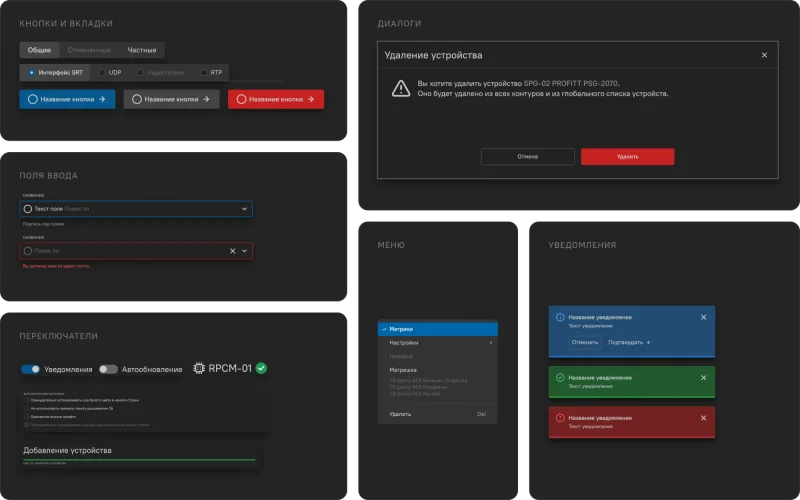
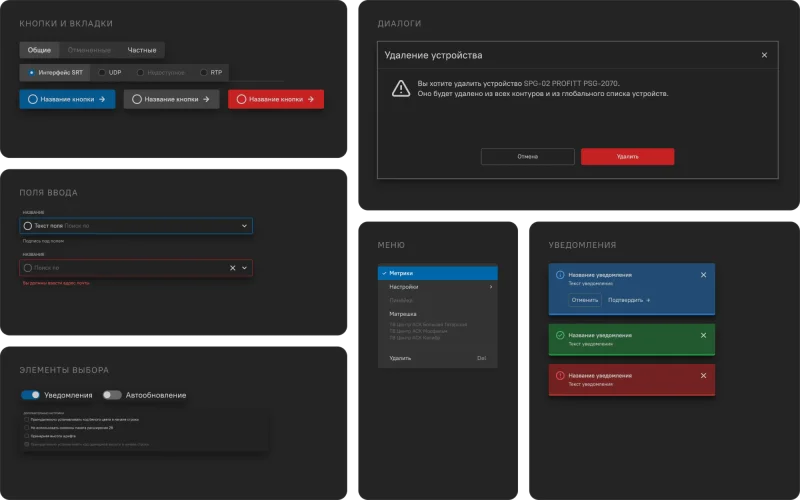
Design system: new cover on a transparent ground, shown without a plate
The new cover keeps its transparent gaps between the panels. Where it
appears (tunnel, the case's head, other-projects cards, ring previews)
the site no longer lays a dark plate, frame or glow behind it; the
other covers keep theirs.

Claude-Session: https://claude.ai/code/session_01Ffz7rezJQZF1CdbUwGJXMK

diff --git a/cases/design-system.html b/cases/design-system.html
@@ -63,7 +63,7 @@
       <h1 class="case-hero__title">Дизайн-система Vidau Systems</h1>
       <p class="case-hero__subtitle">Как библиотека из нескольких базовых элементов стала общей основой для линейки B2B-продуктов в компании</p>
 
-      <figure class="case-cover">
+      <figure class="case-cover cover-cutout">
         <img src="/src/assets/cases/design-system/Cover.webp" alt="Обложка дизайн-системы Vidau: сборка ключевых страниц библиотеки компонентов" width="2000" height="1250" fetchpriority="high" />
         <span class="case-chips"><span class="tunnel__tag">Дизайн-система</span><span class="tunnel__tag">Enterprise</span></span>
       </figure>

diff --git a/src/style.css b/src/style.css
@@ -838,6 +838,7 @@ h1, h2, h3 {
   background: linear-gradient(135deg, #1c2530, #0e1116);
   overflow: hidden;
 }
+.case.cover-cutout .case__media { background: transparent; }
 .case__media img {
   width: 100%;
   height: 100%;
@@ -1596,6 +1597,13 @@ main,
       0 0 0 1px rgba(255, 255, 255, 0.08),
       0 40px 120px -40px rgba(214, 107, 208, 0.45);
     transition: box-shadow 0.4s ease;
+  }
+  /* A cover drawn on a transparent ground (the design system's) keeps
+     it: no plate, frame or glow behind it. */
+  .tunnel__cover.cover-cutout,
+  .tunnel__cover.cover-cutout:hover {
+    background: transparent;
+    box-shadow: none;
   }
   .tunnel__cover img {
     display: block;

diff --git a/index.html b/index.html
@@ -236,7 +236,7 @@
           </div>
           </article>
           <article class="tunnel__case tunnel__case--left">
-          <a class="tunnel__cover" href="/cases/design-system.html" tabindex="-1" aria-hidden="true">
+          <a class="tunnel__cover cover-cutout" href="/cases/design-system.html" tabindex="-1" aria-hidden="true">
             <img src="/src/assets/cases/design-system/Cover.webp" alt="" width="2000" height="1250" loading="lazy" decoding="async" />
             <span class="tunnel__tags case-chips"><span class="tunnel__tag">Дизайн-система</span><span class="tunnel__tag">Enterprise</span></span>
           </a>

diff --git a/cases/satellite.html b/cases/satellite.html
@@ -334,7 +334,7 @@
           <div class="tags"><span class="tag">B2B</span><span class="tag">Web</span></div>
         </a>
 
-        <a class="case case--media-design-system" href="/cases/design-system.html">
+        <a class="case case--media-design-system cover-cutout" href="/cases/design-system.html">
           <div class="case__media"><img src="/src/assets/cases/design-system/Cover.webp" alt="Обложка дизайн-системы Vidau" width="2000" height="1250" loading="lazy" decoding="async" /></div>
           <div class="case__body case__body--bottom">
             <h3>Дизайн-система</h3>

diff --git a/cases/tracktice.html b/cases/tracktice.html
@@ -282,7 +282,7 @@
           <div class="tags"><span class="tag">B2B</span><span class="tag">Web</span></div>
         </a>
 
-        <a class="case case--media-design-system" href="/cases/design-system.html">
+        <a class="case case--media-design-system cover-cutout" href="/cases/design-system.html">
           <div class="case__media"><img src="/src/assets/cases/design-system/Cover.webp" alt="Обложка дизайн-системы Vidau" width="2000" height="1250" loading="lazy" decoding="async" /></div>
           <div class="case__body case__body--bottom">
             <h3>Дизайн-система</h3>

diff --git a/cases/vs-ecosystem.html b/cases/vs-ecosystem.html
@@ -321,7 +321,7 @@
           <div class="tags"><span class="tag">B2B</span><span class="tag">Web</span></div>
         </a>
 
-        <a class="case case--media-design-system" href="/cases/design-system.html">
+        <a class="case case--media-design-system cover-cutout" href="/cases/design-system.html">
           <div class="case__media"><img src="/src/assets/cases/design-system/Cover.webp" alt="Обложка дизайн-системы Vidau" width="2000" height="1250" loading="lazy" decoding="async" /></div>
           <div class="case__body case__body--bottom">
             <h3>Дизайн-система</h3>

diff --git a/cases/vs-subtitles.html b/cases/vs-subtitles.html
@@ -514,7 +514,7 @@
           <div class="tags"><span class="tag">B2B</span><span class="tag">Web</span></div>
         </a>
 
-        <a class="case case--media-design-system" href="/cases/design-system.html">
+        <a class="case case--media-design-system cover-cutout" href="/cases/design-system.html">
           <div class="case__media"><img src="/src/assets/cases/design-system/Cover.webp" alt="Обложка дизайн-системы Vidau" width="2000" height="1250" loading="lazy" decoding="async" /></div>
           <div class="case__body case__body--bottom">
             <h3>Дизайн-система</h3>

diff --git a/src/case.css b/src/case.css
@@ -438,6 +438,8 @@
 .short-ref img {
   box-shadow: 0 0 0 1px var(--border), 0 24px 60px -30px rgba(0, 0, 0, 0.8);
 }
+/* A cover drawn on a transparent ground (the design system's) keeps it. */
+.case-cover.cover-cutout { box-shadow: none; }
 .case-figure figcaption {
   margin-top: var(--space-1);
   font-size: 13px;
